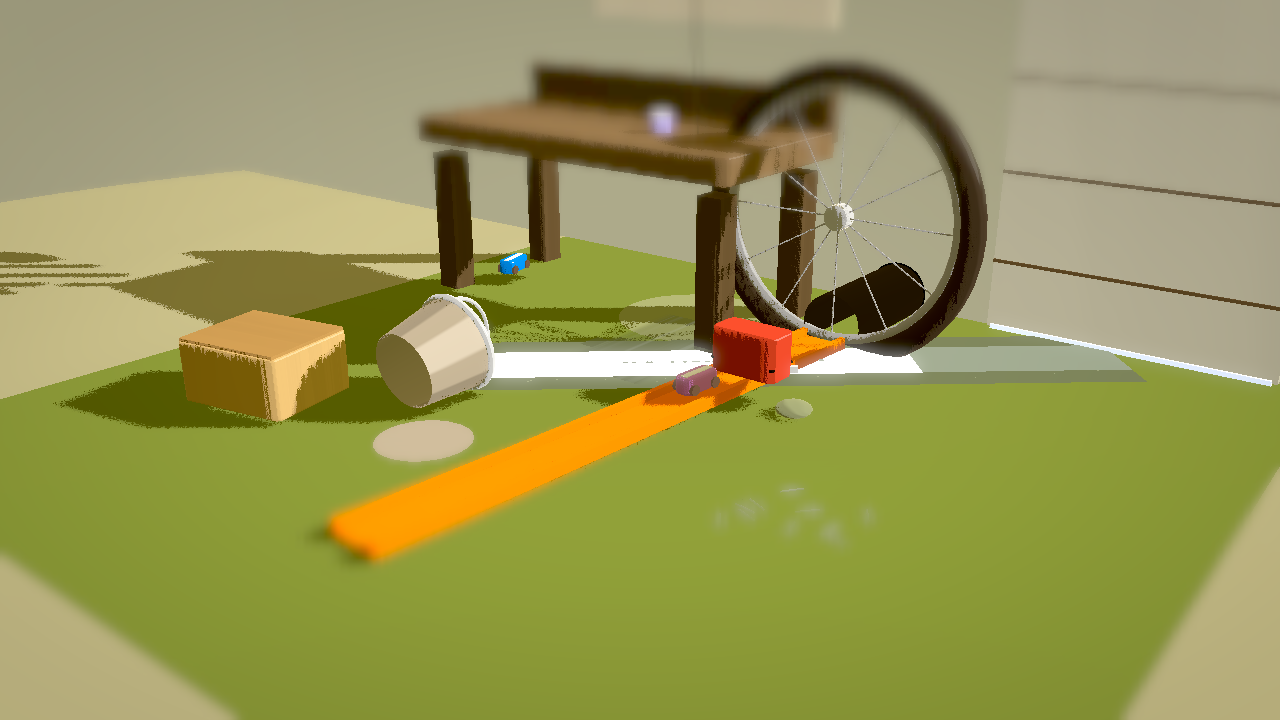
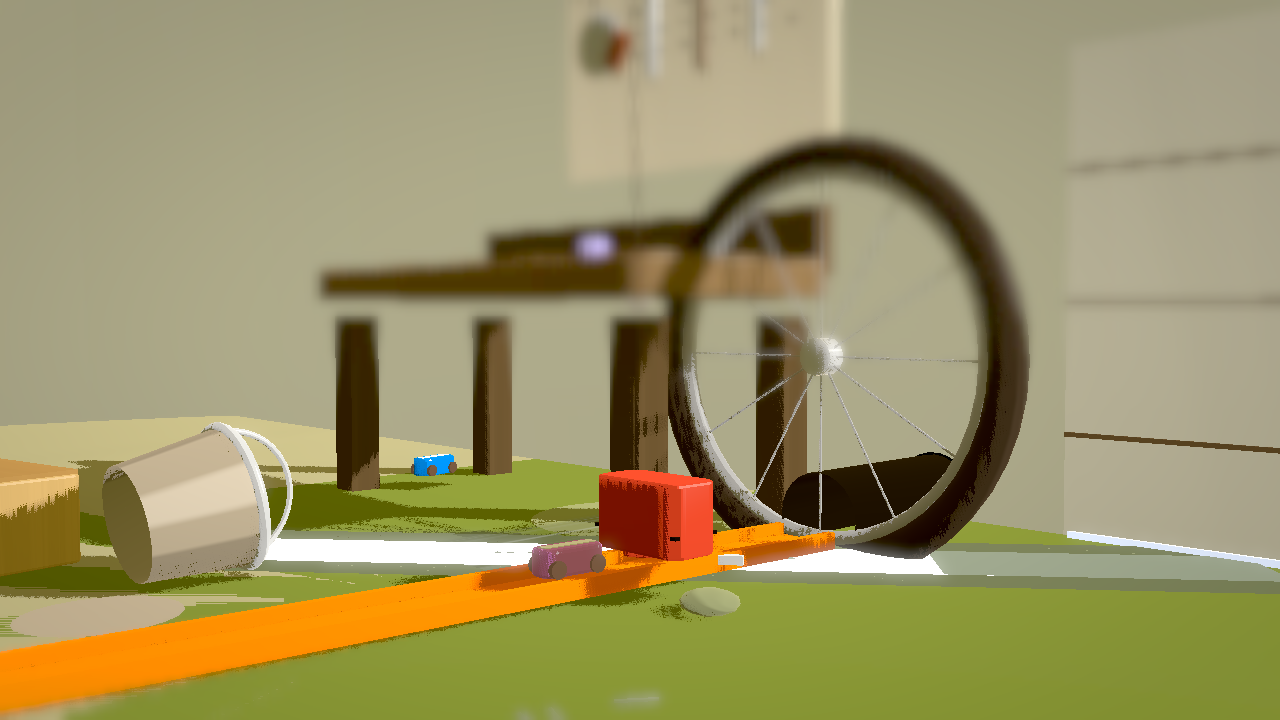
stage 4: environment artist - garage side rig

diff --git a/src/dev/cameras.ts b/src/dev/cameras.ts
@@ -55,6 +55,22 @@ export function isCanonicalShot(value: string): value is CanonicalShot {
 import { CAMERAS as GARDEN_CAMERAS } from '../sets/garden/data.ts'
 
 const SET_SHOTS: Record<string, Partial<Record<CanonicalShot, CameraRig>>> = {
+  // The GARAGE ships only its SIDE rig (stage 4 production round — the AD's
+  // one knob on Review 2026-10-09: re-aim the establishing rig). The old rig
+  // was the borrowed kitchen establishing (pos 0.62/0.42/0.78, flat p5 74,
+  // zero blade floor-contact in the census band). This one drops to floor
+  // height a hand-span nearer the same corner and pitches UP onto the bench
+  // line, so the
+  // blade's white floor contact runs INTO the lower-45 % band (2.3 % cover,
+  // run 276), the wheel's tunnel mass and the bench silhouette re-enter as
+  // darks (p5 47, inside the ratified band), and the mid-frame flake
+  // cluster slides off the bottom edge into defocus instead of sitting
+  // confetti-bright mid-frame. hero/floor deliberately stay on the
+  // canonical fallback — the ratified hero/low stills re-render byte-
+  // identical; only this row moves.
+  'garage-set': {
+    establishing: { position: [0.56, 0.17, 0.4], target: [0, 0.14, -0.14], fov: 35, near: 0.01, far: 12 },
+  },
   'garden-set': {
     establishing: { ...GARDEN_CAMERAS.establishing, position: [...GARDEN_CAMERAS.establishing.position], target: [...GARDEN_CAMERAS.establishing.target] },
     hero: { ...GARDEN_CAMERAS.hero, position: [...GARDEN_CAMERAS.hero.position], target: [...GARDEN_CAMERAS.hero.target] },

diff --git a/docs/vault/Modules/dev.md b/docs/vault/Modules/dev.md
@@ -12,7 +12,7 @@ tags: [module]
 
 `src/dev/registry.ts` is the scene registry: `registerScene(name, factory)` where the factory receives `{ rig, time }` and returns `{ scene, camera }`, optionally plus `focus` (world-space tilt-shift subject) and `tokens` (set for the color grade).
 
-`src/dev/cameras.ts` holds `canonicalCamera(shot)` for `establishing` / `hero` / `floor` / `material-review` in one place — provisional kitchen framings (numbers in [[Reference/Canonical Cameras|Canonical Cameras]]) that the harness hands every scene as `rig` — plus `RENDER_WIDTH`/`RENDER_HEIGHT`/`RENDER_DPR` (1600×900 @ DPR 1, which `harness.ts` sizes the renderer and the `readPixels` buffer with). The stage-2 feel-track level is a kitchen-neutral test track, so no level file has claimed these framings yet; moving them into set/level files is a stage-3 job (do not fork the numbers).
+`src/dev/cameras.ts` holds `canonicalCamera(shot)` for `establishing` / `hero` / `floor` / `material-review` in one place — provisional kitchen framings (numbers in [[Reference/Canonical Cameras|Canonical Cameras]]) — the harness resolves each scene's rig through `setCameras(setId, shot)`: a set's own row in the file's `SET_SHOTS` wins and the provisional rig is the fallback (the garden copies its `data.ts CAMERAS` through; the garage registered a one-line `establishing` side rig for the 2026-10-09 production-side re-shoot, hero/floor left on the fallback so their ratified stills re-render byte-identical) — plus `RENDER_WIDTH`/`RENDER_HEIGHT`/`RENDER_DPR` (1600×900 @ DPR 1, which `harness.ts` sizes the renderer and the `readPixels` buffer with). The stage-2 feel-track level is a kitchen-neutral test track, so no level file has claimed these framings yet; moving them into set/level files is a stage-3 job (do not fork the numbers).
 
 `src/dev/scenes/*.ts` modules self-register on import; the harness pulls them all in with `import.meta.glob` (eager), so **adding a scene is dropping a file in `src/dev/scenes/`** — no edit to `src/dev/harness.ts` is ever needed (parallel-safe for exploration rounds). The current roster: `src/dev/scenes/material-ramp.ts` registers `materials-a`, `materials-b`, `materials-c` — three `RAMP_VARIANTS` (hard cel / three hard steps / painterly) shown on the same three props (die-cast beveled car with stripe, ceramic bowl lathe form, orange track channel) over a painted-wood turntable under one key light; `src/dev/scenes/kitchen-a.ts`, `src/dev/scenes/kitchen-b.ts`, `src/dev/scenes/kitchen-c.ts` register the three competing kitchen tiles `kitchen-a` / `kitchen-b` / `kitchen-c` (tile B is the chosen reference); `src/dev/scenes/post-preview.ts` registers `kitchen-b-integrated` — the tile-B integration re-render (the stage-1 send-back: lighting rig with accent-reachable fill, stain films for the wet patch and mug ring, ceramic saturation lift, lightness-floored tyres, mug pulled back), with the focus point carried in its `SceneEntry`; `src/dev/scenes/cars.ts` registers the three car looks `car-a` / `car-b` / `car-c` (car-a is the chosen reference); `src/dev/scenes/trackkit.ts` registers `trackkit` — the stage-2 track kit's establishing shot, all 13 pieces chained end to end by `chain`/`fitSocket` from `src/track`, every mesh a `TrackSpline.toMesh()` of the spline its colliders come from, the display group uniformly scaled to fit the establishing frustum; `src/dev/scenes/worldsmoke.ts` registers `worldsmoke` — the `World` module's reify-to-mesh path with no physics and no clock (the feel-track build through `buildTrackMeshes`, plain materials, the car proxy parked at the level start socket), proving the world's geometry half in the built page while the physics half stays guarded headlessly; `src/dev/scenes/kitchen-set.ts` registers `kitchen-set` — the PRODUCTION kitchen set (`buildKitchenSet` from `src/sets/kitchen`) under the lighting rig with the reference's three parked stand-in cars and two decorative runs, its `SceneEntry.focus` the car riding the bowl rim — except the floor shot, whose band re-points at a stand-in parked in the middle third (the stage-3 fix round made the canonical floor "a car in the focus band" literally true); the stills also pay a shadow budget the game rig does not (`fillStrength` 0.07, `shadowTint` mixed 0.7 toward a deep umber) so the canonical frames earn darks below 60 without the gameplay defaults moving (the canonical stage-3 set renders run it with `post=on`); `src/dev/scenes/bedroom-set.ts` registers `bedroom-set` — the PRODUCTION bedroom set (`buildBedroomSet` from `src/sets/bedroom`, [[sets]]) under a dusk rig whose shadow-casting key sits AT the lamp bulb, with the set's own `lamp-practical` PointLight adding the pool, one decorative run and the still's bluish-green car as the focus of every shot.
 

diff --git a/docs/explorations/garage/Concept.md b/docs/explorations/garage/Concept.md
@@ -114,5 +114,6 @@ to black.
 | production-hero | 6.720 | 6.651 | 0.069 | 2.193 | 153 |
 | production-side | 2.779 | 2.764 | 0.014 | 0.846 | 121 |
 | production-low | 6.186 | 5.901 | 0.285 | 0.915 | 122 |
+| production-side (re-shot 2026-10-09: side rig re-aimed in `src/dev/cameras.ts`; census.mjs mean 145.9, p5 47, blade floor-contact in band 2.34 % / run 276; hero/low re-render byte-identical) | 4.290 | 4.272 | 0.018 | 1.024 | 150 |
 
 The ratified look's earned tinted darks survive production (darkest room in the house holds: hero 6.7 % tinted, blackish ~0). Carried-forwards honored: bulb practical visible in hero framing, sunblade-as-ribbon shading on the slab, soft stain edge (film, not decal), B's mezzanine ported.

diff --git a/docs/vault/Reference/Canonical Cameras.md b/docs/vault/Reference/Canonical Cameras.md
@@ -44,4 +44,5 @@ fork these numbers elsewhere.
 ## Per-set status
 
 - Kitchen (hero set): defined provisionally in `src/dev/cameras.ts` (numbers above); moves into the kitchen level file with the stage-3 art slice.
-- Bathroom, bedroom, garden, garage, porch: unassigned — each Environment Artist adds them with their set (stage 4/5).
+- Bathroom, bedroom, garden, porch: unassigned — each Environment Artist adds them with their set (stage 4/5).
+- Garage: ships a single `establishing` (side) row in `SET_SHOTS` in `src/dev/cameras.ts` (stage 4 production side-rig round, Review 2026-10-09); its hero/floor shots ride the provisional fallback so the ratified stills re-render byte-identical.
